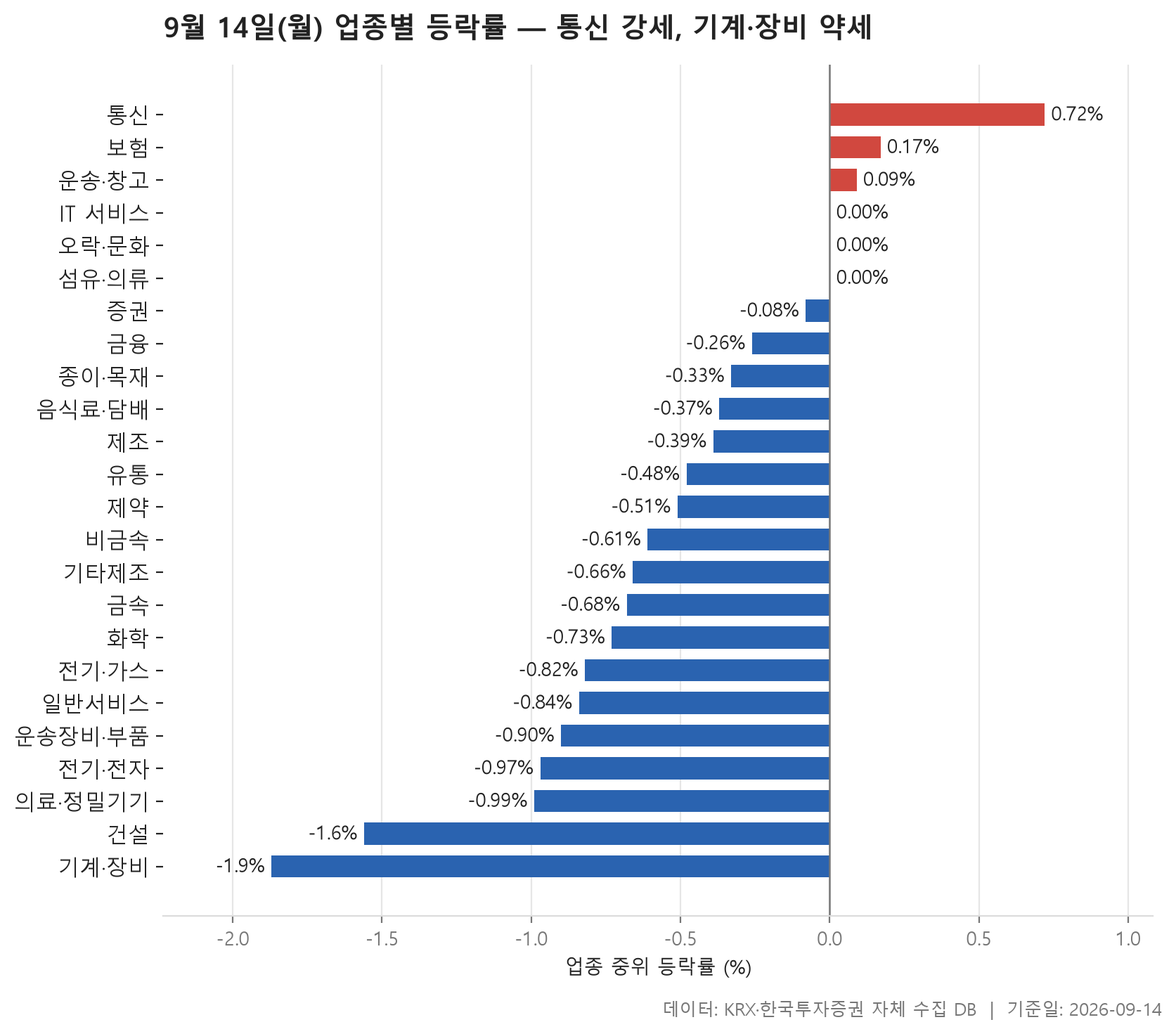
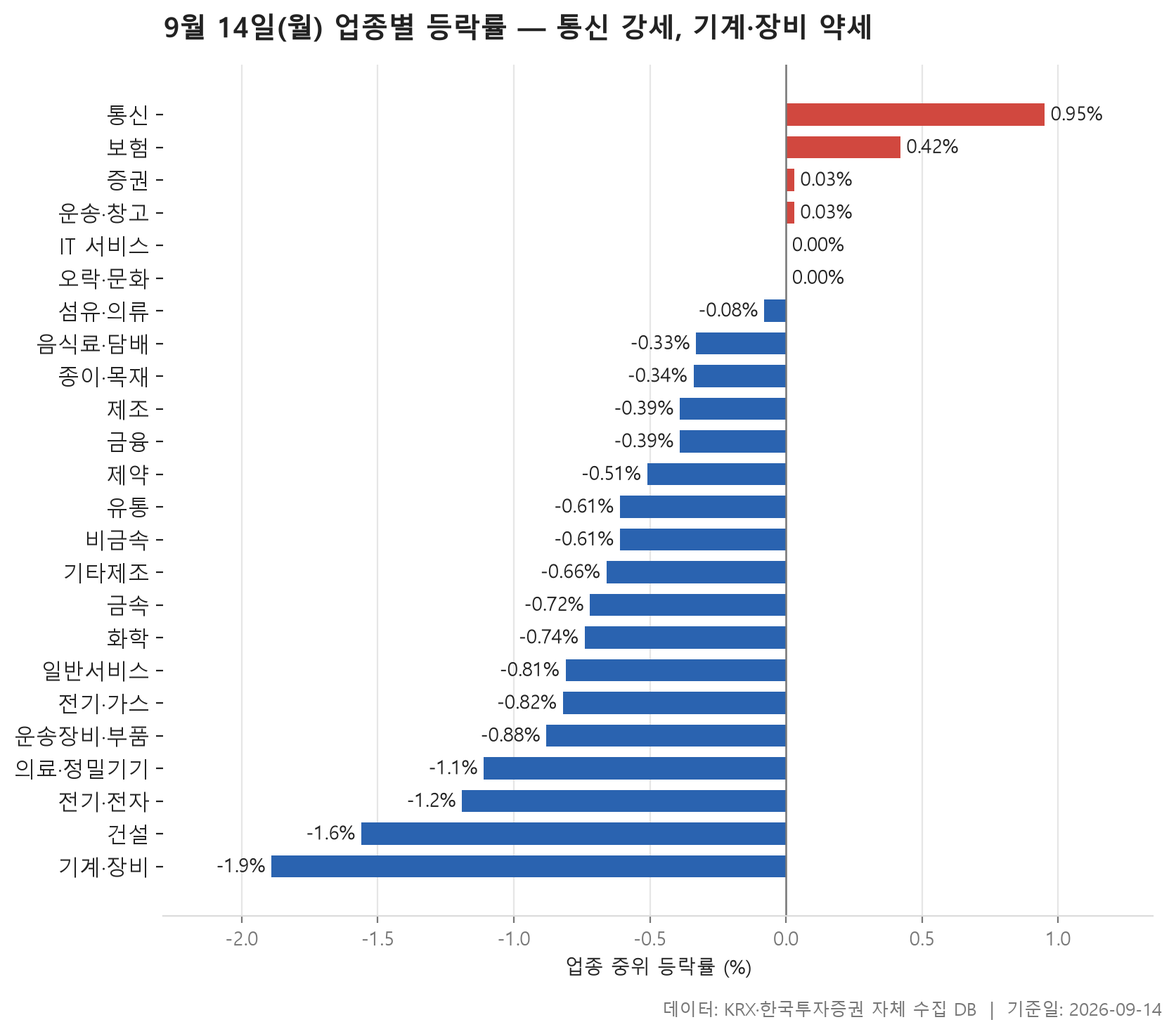
2026-09-14 자동 발행 (1편)
- 2026-09-14-daily-market

blog/daily.py 가 만들었습니다. push 는 사람이 확인 후 합니다.

diff --git a/content/posts/2026-09-14-daily-market/index.md b/content/posts/2026-09-14-daily-market/index.md
@@ -1,14 +1,14 @@
 ---
 title: "9월 14일(월) 오늘의 시장 — 통신 강세, 기계·장비 약세"
 date: 2026-09-14T16:10:00+09:00
-lastmod: 2026-09-14T16:05:51+09:00
+lastmod: 2026-09-28T17:11:32+09:00
 description: "업종 흐름, 52주 신고가·신저가, 거래량이 터진 종목을 한 번에 정리했습니다."
 categories: ["오늘의 시장"]
 draft: false
 sourcePack: "blog/output/2026-09-14/2026-09-14-daily-market/pack.json"
 strip:
   - label: "업종 중위 등락률"
-    value: "-0.49%"
+    value: "-0.56%"
     sign: "down"
   - label: "52주 신고가"
     value: "2개"
@@ -20,127 +20,125 @@ strip:
     value: "20개"
     sign: ""
 ---
-한 주의 첫 거래일이 끝났습니다. 2026년 9월 14일 종가를 9월 11일 종가와 비교해 24개 업종을 늘어놓고 보면, 화면 대부분이 마이너스 쪽으로 기울어 있습니다. 업종별 중위 등락률을 순서대로 세웠을 때 한가운데 놓인 값이 <span class="chg chg-down">-0.49%</span>. 24개 가운데 플러스로 마감한 업종은 3개뿐이고 18개가 마이너스였으니, 오르는 쪽보다 내리는 쪽이 훨씬 넓었던 하루입니다.
+9월 14일 월요일 장은 한마디로 **넓게 약한 하루**였습니다. 24개 업종 가운데 중위 등락률이 플러스인 곳은 4개, 마이너스인 곳은 18개였습니다. 업종별 중위 등락률을 한 줄로 세우면 한가운데 값이 <span class="chg chg-down">-0.56%</span>입니다. 크게 무너진 날은 아니었지만, 대부분 업종에서 내린 종목이 오른 종목보다 많았습니다.
 
-가장 위에 놓인 업종은 통신으로 중위 등락률 <span class="chg chg-up">+0.72%</span>, 가장 아래는 기계·장비로 <span class="chg chg-down">-1.87%</span>였습니다. 양 끝의 폭 자체가 크게 벌어진 날은 아니지만, 아래쪽이 두껍다는 점이 이날의 성격을 말해 줍니다. 지수 한두 개로는 잘 보이지 않는 대목이라, 업종 안쪽에서 몇 종목이나 올랐는지를 함께 봐야 그림이 잡힙니다.
+표를 조금 더 들여다보면 다른 그림이 하나 더 보입니다. 업종 전체는 가라앉았는데, 거래량이 평소의 수십 배로 불어난 종목은 거의 다 올랐습니다. 52주 신고가는 두 종목뿐이었고 신저가는 여덟 종목이었는데, 신저가 종목은 모두 코스닥 종목이었습니다.
 
-오늘 글에서는 네 가지를 차례로 훑습니다. 먼저 업종별 흐름, 다음으로 52주 최고가를 넘어선 종목과 52주 최저가를 밑돈 종목, 마지막으로 평소 거래량의 몇 배가 터진 종목들입니다. 어느 쪽이든 표가 말해 주는 범위 안에서만 읽겠습니다. 왜 그렇게 움직였는지는 이 자료에 들어 있지 않습니다.
+오늘은 업종 등락, 신고가, 신저가, 거래량 급증 순서로 살펴봅니다. 평균만 보면 오른 것처럼 보이지만 실제로는 종목 대부분이 내린 업종도 있어서, 그런 대목을 중심으로 짚어 보겠습니다.
 
 > 기준일: 2026-09-14 · 집계: 자체 수집 데이터베이스
 
 ## 업종 등락률 — 24개 중 18개 하락
 
-순위는 업종 안 종목들의 등락률을 늘어놓았을 때 한가운데 놓인 값으로 매겼습니다. 평균은 상한가 한 종목에 크게 흔들리기 때문입니다. 이 기준으로 보면 위쪽에 통신, 보험, 운송·창고가 있고, 그 아래 IT 서비스·오락·문화·섬유·의류가 0.00%로 붙어 있습니다. 즉 플러스 구간이 아주 얇습니다. 반대로 아래쪽은 건설 <span class="chg chg-down">-1.56%</span>, 기계·장비 <span class="chg chg-down">-1.87%</span>로 떨어지면서 꼬리가 길게 늘어져 있고요.
+맨 위는 통신입니다. 중위 등락률이 <span class="chg chg-up">+0.95%</span>이고, 13개 종목 가운데 76.90%가 올랐습니다. 넷 중 셋 넘게 오른 셈이라 몇 종목만 튄 결과는 아닙니다. 평균은 <span class="chg chg-up">+1.84%</span>로 중위값보다 높은데, 여기에는 프리티(<span class="chg chg-up">+8.37%</span>)의 몫이 큽니다. 이 종목 하나가 업종 평균을 0.64%p 끌어올렸습니다. 그 뒤로 보험과 증권, 운송·창고가 따라왔지만 증권과 운송·창고는 <span class="chg chg-up">+0.03%</span>에 그쳐 사실상 제자리였습니다.
 
-업종 안에서 오른 종목의 비중을 같이 보면 차이가 더 선명합니다. 통신은 열 곳 중 일고여덟 곳이 올라 76.90%였던 반면, 전기·가스는 10.00%, 건설은 15.70%, 기계·장비는 16.50%에 그쳤습니다. 아래쪽 업종들은 몇몇 종목이 크게 빠져서 내려간 게 아니라, 업종 전체가 고르게 밀린 모양입니다.
+눈여겨볼 곳은 중위값과 평균이 반대로 움직인 업종입니다. 보험은 중위값이 <span class="chg chg-up">+0.42%</span>인데 평균은 <span class="chg chg-down">-0.19%</span>입니다. 삼성생명(<span class="chg chg-down">-3.09%</span>) 하나가 평균을 -0.28%p 끌어내리면서 부호가 뒤집혔습니다. **제조**는 방향이 거꾸로입니다. 7개 종목 가운데 오른 종목이 14.30%뿐이고 중위값도 <span class="chg chg-down">-0.39%</span>인데, 평균은 <span class="chg chg-up">+0.28%</span>로 플러스입니다. 에넥스(<span class="chg chg-up">+16.08%</span>) 하나가 평균을 2.30%p 밀어 올렸기 때문입니다. 평균만 보면 오른 업종으로 착각하기 쉽습니다. IT 서비스도 중위값은 0.00%인데 평균은 <span class="chg chg-up">+0.93%</span>입니다. 다만 인피니트헬스케어(<span class="chg chg-up">+30.00%</span>)가 평균을 올린 폭은 0.12%p에 그쳐, 이 종목 말고도 크게 오른 종목이 여럿이었다고 읽는 편이 맞습니다.
 
-중위값과 평균이 어긋난 자리를 짚어 보면 읽을 거리가 생깁니다. 통신은 한가운데 값이 <span class="chg chg-up">+0.72%</span>인데 평균은 <span class="chg chg-up">+1.93%</span>까지 올라가 있고, 이 업종에서 가장 크게 움직인 프리티 한 종목이 업종 평균을 0.64%p 끌어올린 것으로 계산됩니다. 격차의 상당 부분이 이 한 종목에서 나온 셈입니다. 제조는 더 극단적입니다. 종목 수가 7개뿐인데 오른 종목은 14.30%에 불과한데도 평균은 <span class="chg chg-up">+0.28%</span>로 플러스입니다. 에넥스 한 종목이 평균에 얹은 몫이 2.30%p로, 이 표에서 가장 큰 값입니다. 반대로 기계·장비는 KS인더스트리가 <span class="chg chg-up">+29.97%</span>로 평균을 0.15%p 밀어 올렸지만 업종 전체가 <span class="chg chg-down">-1.72%</span>였습니다. 한 종목의 상한가가 200개 넘는 종목의 약세를 가리지 못한 겁니다.
-
-거래대금 쪽은 또 다른 이야기입니다. 전기·전자가 148,541.60억원으로 압도적인데, 정작 중위 등락률은 <span class="chg chg-down">-0.97%</span>이고 오른 종목은 셋 중 하나에 못 미쳤습니다. 돈이 가장 많이 오간 업종이 가장 강했던 업종은 아니었다는 뜻이죠. 화학에서는 카프로가 <span class="chg chg-down">-40.83%</span>로 표 전체에서 가장 큰 하락폭을 기록했는데, 업종 평균에 얹은 몫은 -0.18%p에 그쳤습니다. 222개짜리 업종에서는 한 종목의 급락도 평균에 별 자국을 남기지 못합니다.
+아래쪽에서는 기계·장비가 <span class="chg chg-down">-1.89%</span>로 가장 약했습니다. 206개 종목 가운데 오른 종목은 15.50%로, 여섯 곳 중 한 곳도 되지 않습니다. KS인더스트리가 <span class="chg chg-up">+29.97%</span> 올랐지만 업종 흐름을 바꾸지는 못했습니다. 건설(<span class="chg chg-down">-1.56%</span>)도 오른 종목이 15.70%로 비슷하게 얇았고, 전기·가스는 10개 종목 가운데 10.00%만 올랐습니다. 전기·전자는 363개 종목에 거래대금이 159,017.60억원으로 다른 업종과 비교가 안 될 만큼 컸는데, 중위값은 <span class="chg chg-down">-1.19%</span>였습니다. 화학의 카프로(<span class="chg chg-down">-40.83%</span>)나 운송장비·부품의 코다코(<span class="chg chg-down">-33.63%</span>)처럼 크게 빠진 종목도 있었습니다. 다만 종목 수가 많은 업종이라 각 업종 평균을 움직인 폭은 -0.18%p, -0.25%p에 머물렀습니다.
 
 ![업종 등락률 차트](chart-sector-change.png)
 
 | 업종 | 종목수(개) | 중위등락률(%) | 평균등락률(%) | 상승비율(%) | 주도종목 | 주도종목등락률(%) | 평균기여도(%p) | 거래대금합계(억원) |
 |---|---|---|---|---|---|---|---|---|
-| 통신 | 13 | +0.72 | +1.93 | 76.90 | 프리티 | +8.37 | 0.64 | 1,120.60 |
-| 보험 | 11 | +0.17 | -0.22 | 54.50 | 삼성생명 | -3.09 | -0.28 | 2,421.40 |
-| 운송·창고 | 28 | +0.09 | +0.03 | 53.60 | 흥아해운 | -5.64 | -0.20 | 1,343.80 |
-| IT 서비스 | 244 | 0.00 | +1.04 | 48.80 | 인피니트헬스케어 | +30.00 | 0.12 | 11,809.30 |
-| 오락·문화 | 67 | 0.00 | +0.40 | 49.30 | 골드앤에스 | -26.35 | -0.39 | 924.50 |
-| 섬유·의류 | 49 | 0.00 | -0.98 | 42.90 | 원풍물산 | -26.12 | -0.53 | 291.80 |
-| 증권 | 18 | -0.08 | +0.02 | 44.40 | 부국증권 | +2.20 | 0.12 | 781.10 |
-| 금융 | 111 | -0.26 | -0.32 | 42.30 | 나우IB | -23.33 | -0.21 | 17,215.10 |
-| 종이·목재 | 27 | -0.33 | -0.32 | 33.30 | 유니드비티플러스 | +4.08 | 0.15 | 37.80 |
-| 음식료·담배 | 84 | -0.37 | -0.78 | 33.30 | 아미코젠 | -11.99 | -0.14 | 1,766.90 |
-| 제조 | 7 | -0.39 | +0.28 | 14.30 | 에넥스 | +16.08 | 2.30 | 26.60 |
-| 유통 | 153 | -0.48 | -0.59 | 35.90 | 조이웍스앤코 | -11.44 | -0.07 | 6,187.90 |
-| 제약 | 166 | -0.51 | -0.45 | 30.70 | 삼익제약 | +15.55 | 0.09 | 7,050.00 |
-| 비금속 | 36 | -0.61 | -0.82 | 38.90 | 유니온머티리얼 | +11.26 | 0.31 | 568.90 |
-| 기타제조 | 14 | -0.66 | -0.08 | 35.70 | 리튬포어스 | +3.82 | 0.27 | 13.60 |
-| 금속 | 131 | -0.68 | -0.76 | 29.80 | 영풍 | +29.91 | 0.23 | 5,158.10 |
-| 화학 | 222 | -0.73 | -0.89 | 31.10 | 카프로 | -40.83 | -0.18 | 10,331.10 |
-| 전기·가스 | 10 | -0.82 | -1.28 | 10.00 | SGC에너지 | -4.08 | -0.41 | 588.30 |
-| 일반서비스 | 168 | -0.84 | -0.93 | 28.60 | 모아라이프플러스 | +11.56 | 0.07 | 6,480.10 |
-| 운송장비·부품 | 134 | -0.90 | -1.14 | 31.30 | 코다코 | -33.63 | -0.25 | 9,677.30 |
-| 전기·전자 | 363 | -0.97 | -0.68 | 28.90 | 광전자 | +30.00 | 0.08 | 148,541.60 |
-| 의료·정밀기기 | 99 | -0.99 | -1.08 | 32.30 | 코셈 | +14.18 | 0.14 | 1,717.90 |
-| 건설 | 51 | -1.56 | -1.97 | 15.70 | 금호건설 | -7.55 | -0.15 | 3,273.60 |
-| 기계·장비 | 206 | -1.87 | -1.72 | 16.50 | KS인더스트리 | +29.97 | 0.15 | 13,331.60 |
+| 통신 | 13 | +0.95 | +1.84 | 76.90 | 프리티 | +8.37 | 0.64 | 1,179.50 |
+| 보험 | 11 | +0.42 | -0.19 | 54.50 | 삼성생명 | -3.09 | -0.28 | 2,735.70 |
+| 증권 | 18 | +0.03 | +0.06 | 50.00 | 부국증권 | +2.20 | 0.12 | 857.30 |
+| 운송·창고 | 28 | +0.03 | 0.00 | 50.00 | STX그린로지스 | -5.60 | -0.20 | 1,444.00 |
+| IT 서비스 | 244 | 0.00 | +0.93 | 47.50 | 인피니트헬스케어 | +30.00 | 0.12 | 12,664.40 |
+| 오락·문화 | 67 | 0.00 | +0.53 | 47.80 | 아티스트컴퍼니 | +29.94 | 0.45 | 990.10 |
+| 섬유·의류 | 49 | -0.08 | -0.96 | 40.80 | 원풍물산 | -26.12 | -0.53 | 316.50 |
+| 음식료·담배 | 84 | -0.33 | -0.73 | 34.50 | 아미코젠 | -11.99 | -0.14 | 1,824.00 |
+| 종이·목재 | 27 | -0.34 | -0.63 | 25.90 | 무림SP | -2.61 | -0.10 | 40.30 |
+| 제조 | 7 | -0.39 | +0.28 | 14.30 | 에넥스 | +16.08 | 2.30 | 26.70 |
+| 금융 | 111 | -0.39 | -0.36 | 41.40 | 나우IB | -22.83 | -0.21 | 17,946.20 |
+| 제약 | 166 | -0.51 | -0.44 | 33.10 | 삼익제약 | +17.19 | 0.10 | 7,571.90 |
+| 유통 | 153 | -0.61 | -0.64 | 34.00 | 조이웍스앤코 | -11.44 | -0.07 | 6,862.90 |
+| 비금속 | 36 | -0.61 | -0.95 | 38.90 | 유니온머티리얼 | +11.26 | 0.31 | 604.30 |
+| 기타제조 | 14 | -0.66 | -0.08 | 35.70 | 리튬포어스 | +3.82 | 0.27 | 117.70 |
+| 금속 | 131 | -0.72 | -0.79 | 28.20 | 영풍 | +29.91 | 0.23 | 5,388.50 |
+| 화학 | 222 | -0.74 | -0.90 | 30.60 | 카프로 | -40.83 | -0.18 | 11,420.90 |
+| 일반서비스 | 168 | -0.81 | -1.02 | 29.20 | 모아라이프플러스 | +11.56 | 0.07 | 7,057.80 |
+| 전기·가스 | 10 | -0.82 | -1.30 | 10.00 | SGC에너지 | -4.08 | -0.41 | 610.60 |
+| 운송장비·부품 | 134 | -0.88 | -1.13 | 32.10 | 코다코 | -33.63 | -0.25 | 10,180.30 |
+| 의료·정밀기기 | 99 | -1.11 | -1.18 | 29.30 | 코셈 | +14.18 | 0.14 | 1,849.30 |
+| 전기·전자 | 363 | -1.19 | -0.82 | 27.00 | 광전자 | +30.00 | 0.08 | 159,017.60 |
+| 건설 | 51 | -1.56 | -1.97 | 15.70 | 금호건설 | -7.55 | -0.15 | 3,533.50 |
+| 기계·장비 | 206 | -1.89 | -1.81 | 15.50 | KS인더스트리 | +29.97 | 0.15 | 14,698.60 |
 
 ## 52주 신고가 2개 — 최고 인피니트헬스케어 30%
 
-시가총액 500억원 이상, 거래대금 3억원 이상인 보통주 가운데 종가가 직전 52주 최고가를 넘어선 종목은 단 2개였습니다. 하락 업종이 18개였던 날이니 이 정도 숫자는 이상하지 않습니다.
+종가가 지난 52주 최고가를 넘어선 종목은 두 개뿐이고, 둘 다 IT 서비스 업종입니다. 시장이 넓게 약했던 날이라 신고가가 드문 것은 어색하지 않습니다. 오히려 두 종목이 한 업종에서 나왔다는 점이 더 눈에 띕니다.
 
-둘 다 IT 서비스 업종이라는 점이 눈에 띕니다. 시장은 하나씩 나뉘어 키다리스튜디오가 KOSPI, 인피니트헬스케어가 KOSDAQ이고요. 등락률은 인피니트헬스케어가 <span class="chg chg-up">30%</span>로 가장 높고 키다리스튜디오가 <span class="chg chg-up">11.11%</span>로 가장 낮은데, 표에 두 종목뿐이라 중위값 <span class="chg chg-up">20.55%</span>는 두 값 사이를 가리키는 숫자에 가깝습니다.
+인피니트헬스케어는 코스닥에서 <span class="chg chg-up">+30.00%</span> 올라 11,310원에 마감하며 직전 최고가 10,980원을 넘었습니다. 앞 섹션에서 IT 서비스 업종 안에서 가장 크게 움직인 종목으로 나온 바로 그 종목입니다. 코스피의 키다리스튜디오는 <span class="chg chg-up">+11.11%</span> 올라 9,000원으로 직전 최고가 8,670원을 넘어섰습니다. 두 종목의 등락률 중위값은 <span class="chg chg-up">20.55%</span>입니다.
 
-두 종목 모두 직전 최고가를 아슬아슬하게 넘긴 게 아니라 당일 큰 폭으로 오르면서 한 번에 통과한 모양입니다. 종가와 이전 최고가를 나란히 보면 그 차이가 보입니다. 다만 시가총액은 키다리스튜디오가 3,336억원으로 가장 크고 나머지 한 종목도 비슷한 규모대라, 신고가가 대형주 쪽에서 나온 날은 아니었습니다. 거래대금도 두 종목 모두 100억원에 못 미칩니다.
+상승 폭은 인피니트헬스케어가 훨씬 컸지만 시가총액은 키다리스튜디오가 3,335.70억원으로 더 큽니다. 거래대금은 61.00억원과 63.30억원으로 비슷했습니다. IT 서비스 업종 전체의 중위 등락률은 0.00%였으니, 업종이 함께 오른 결과라기보다 개별 종목이 따로 움직인 결과로 보입니다.
 
 ![52주 신고가 차트](chart-high-change-rate.png)
 
 | 종목명 | 종목코드 | 시장 | 업종 | 종가(원) | 등락률(%) | 이전52주최고(원) | 거래대금(억원) | 시가총액(억원) |
 |---|---|---|---|---|---|---|---|---|
-| 키다리스튜디오 | 020120 | KOSPI | IT 서비스 | 9,000 | +11.11 | 8,670 | 61.00 | 3,336 |
-| 인피니트헬스케어 | 071200 | KOSDAQ | IT 서비스 | 11,310 | +30.00 | 10,980 | 62.60 | 2,759 |
+| 키다리스튜디오 | 020120 | KOSPI | IT 서비스 | 9,000 | +11.11 | 8,670 | 61.00 | 3,335.70 |
+| 인피니트헬스케어 | 071200 | KOSDAQ | IT 서비스 | 11,310 | +30.00 | 10,980 | 63.30 | 2,759.20 |
 
-## 52주 신저가 8개 — 최저 나우IB -23.33%
+## 52주 신저가 8개 — 최저 나우IB -22.83%
 
-반대쪽, 즉 52주 최저가를 밑돈 종목은 8개입니다. 신고가 2개와 견주면 네 배 수. 앞서 본 업종 표의 기울기와 방향이 같습니다.
+신저가는 여덟 종목이고 모두 코스닥입니다. 업종은 7개로 흩어져 있고, 두 종목이 나온 곳은 일반서비스(툴젠, 쓰리빌리언)뿐입니다. 특정 업종이 한꺼번에 무너졌다기보다 여러 업종에서 약한 종목이 하나씩 바닥을 새로 쓴 모양입니다. 등락률 중위값은 <span class="chg chg-down">-6.01%</span>입니다.
 
-여덟 종목 전부 KOSDAQ입니다. 같은 필터를 적용했는데 KOSPI 쪽에서는 한 종목도 걸리지 않았다는 점은 기억해 둘 만합니다. 업종은 7개로 흩어져 있고 일반서비스가 2개로 가장 많은데, 사실상 특정 업종에 몰렸다기보다 여기저기서 하나씩 나온 모양입니다.
+하락 폭은 종목마다 크게 달랐습니다. SAMG엔터는 <span class="chg chg-down">-1.87%</span>만 내렸는데도 종가 17,310원이 직전 최저가 17,320원을 간신히 밑돌아 표에 올랐습니다. 동양이엔피(<span class="chg chg-down">-2.51%</span>)도 크지 않은 하락으로 경계선을 넘었습니다. 반대로 나우IB는 <span class="chg chg-down">-22.83%</span> 급락해 1,085원에 마감했고, 아미코젠은 <span class="chg chg-down">-11.99%</span> 빠져 822원으로 직전 최저가 923원보다 한참 아래에서 끝났습니다. 두 종목은 업종 표에서도 금융과 음식료·담배 안에서 가장 크게 움직인 종목이었습니다.
 
-하락폭은 고르지 않습니다. 한가운데 값이 <span class="chg chg-down">-5.96%</span>인데, 가장 덜 빠진 SAMG엔터가 <span class="chg chg-down">-2.21%</span>, 가장 많이 빠진 나우IB가 <span class="chg chg-down">-23.33%</span>로 한쪽 끝이 크게 벌어져 있습니다. SAMG엔터나 동양이엔피처럼 종가가 직전 최저가를 근소하게 밑돈 경우가 있는가 하면, 아미코젠은 <span class="chg chg-down">-11.99%</span>로 밀리며 이전 최저가에서 제법 내려온 자리에 종가를 찍었습니다. 나우IB는 거래량 급증 표에도 이름이 올라 있어, 오늘 하루 움직임이 특히 컸던 종목입니다. 시가총액은 툴젠이 2,740억원으로 가장 크고, 581억원인 종목까지 있어 전반적으로 작은 편입니다.
+나우IB는 거래량 급증 표에도 이름이 있습니다. 평소보다 훨씬 많은 물량이 오가며 급락한 경우입니다. 시가총액이 가장 큰 신저가 종목은 툴젠(2,735.30억원, <span class="chg chg-down">-6.46%</span>)입니다.
 
 ![52주 신저가 차트](chart-low-change-rate.png)
 
 | 종목명 | 종목코드 | 시장 | 업종 | 종가(원) | 등락률(%) | 이전52주최저(원) | 거래대금(억원) | 시가총액(억원) |
 |---|---|---|---|---|---|---|---|---|
-| 툴젠 | 199800 | KOSDAQ | 일반서비스 | 30,450 | -6.31 | 32,350 | 19.90 | 2,740 |
-| SAMG엔터 | 419530 | KOSDAQ | 오락·문화 | 17,250 | -2.21 | 17,320 | 6.40 | 1,761 |
-| 쓰리빌리언 | 394800 | KOSDAQ | 일반서비스 | 4,135 | -3.84 | 4,245 | 5.40 | 1,316 |
-| 동양이엔피 | 079960 | KOSDAQ | 전기·전자 | 17,060 | -2.51 | 17,350 | 8.60 | 1,288 |
-| 큐리오시스 | 494120 | KOSDAQ | 의료·정밀기기 | 7,820 | -6.12 | 7,990 | 11.10 | 1,193 |
-| 나우IB | 293580 | KOSDAQ | 금융 | 1,078 | -23.33 | 1,092 | 40.00 | 1,023 |
-| 뷰노 | 338220 | KOSDAQ | IT 서비스 | 4,540 | -5.81 | 4,680 | 7.20 | 636 |
-| 아미코젠 | 092040 | KOSDAQ | 음식료·담배 | 822 | -11.99 | 923 | 10.00 | 581 |
+| 툴젠 | 199800 | KOSDAQ | 일반서비스 | 30,400 | -6.46 | 32,350 | 20.50 | 2,735.30 |
+| SAMG엔터 | 419530 | KOSDAQ | 오락·문화 | 17,310 | -1.87 | 17,320 | 7.10 | 1,766.90 |
+| 쓰리빌리언 | 394800 | KOSDAQ | 일반서비스 | 4,105 | -4.53 | 4,245 | 5.60 | 1,306.30 |
+| 동양이엔피 | 079960 | KOSDAQ | 전기·전자 | 17,060 | -2.51 | 17,350 | 8.70 | 1,288.30 |
+| 큐리오시스 | 494120 | KOSDAQ | 의료·정밀기기 | 7,820 | -6.12 | 7,990 | 11.30 | 1,193.30 |
+| 나우IB | 293580 | KOSDAQ | 금융 | 1,085 | -22.83 | 1,092 | 49.20 | 1,030.00 |
+| 뷰노 | 338220 | KOSDAQ | IT 서비스 | 4,535 | -5.91 | 4,680 | 7.40 | 635.00 |
+| 아미코젠 | 092040 | KOSDAQ | 음식료·담배 | 822 | -11.99 | 923 | 10.30 | 580.80 |
 
-## 거래량 급증 20개 — 최고 YTN 183.10배
+## 거래량 급증 20개 — 최고 YTN 269.50배
 
-당일 거래량이 직전 20거래일 평균의 5배를 넘은 보통주가 20개 잡혔습니다. 배수만 놓고 보면 위쪽이 유난히 가파릅니다. YTN이 183.10배로 가장 높고 동국산업 171.60배, 코닉오토메이션 105.70배까지 세 종목이 세 자릿수인데, 한가운데 값은 24.25배, 가장 낮은 라온시큐어는 14.30배입니다. 상위 몇 종목이 분포를 멀찍이 벗어나 있는 구조죠.
+거래량이 직전 20거래일 평균의 5배를 넘은 종목은 20개로, 코스피 5개와 코스닥 15개입니다. 배수의 중위값이 26.30배이니 기준선인 5배를 훌쩍 넘은 종목이 대부분입니다. 가장 두드러진 점은 **방향**입니다. 20개 가운데 내린 종목은 나우IB(<span class="chg chg-down">-22.83%</span>) 하나뿐이고 나머지는 모두 올랐습니다. 업종 대부분이 약했던 날, 거래가 몰린 곳은 오른 쪽이었습니다.
 
-흥미로운 건 배수 순위와 실제 등락이 따로 논다는 점입니다. 배수가 가장 큰 YTN의 등락률은 <span class="chg chg-up">+2.99%</span>로 표 안에서 오히려 조용한 축이고, 두 번째인 동국산업은 <span class="chg chg-up">+23.03%</span>로 크게 올랐습니다. 거래량이 평소의 몇 배로 터졌다는 사실 자체가 가격 방향을 알려 주지는 않는다는 이야기입니다. 실제로 20개 중 19개가 플러스인데 나우IB 하나만 <span class="chg chg-down">-23.33%</span>로 반대 방향이고, 이 종목은 앞 섹션의 52주 최저가 명단에도 들어 있습니다.
+다만 거래량 배수와 등락률이 같이 가지는 않았습니다. 배수가 가장 높은 YTN은 269.50배였지만 주가는 <span class="chg chg-up">+2.99%</span> 오르는 데 그쳤습니다. 동국산업은 182.80배에 <span class="chg chg-up">+23.03%</span>, 코닉오토메이션은 137.20배에 <span class="chg chg-up">+11.79%</span>였습니다. 코닉오토메이션과 씨케이솔루션(<span class="chg chg-up">+9.65%</span>)은 오늘 가장 약했던 기계·장비 업종 종목이라 업종 흐름과 반대로 움직였습니다. 동국산업·동국S&C·동국홀딩스가 나란히 표에 올랐고, 여행사인 노랑풍선과 모두투어도 함께 보입니다. 다만 이유는 이 자료로 알 수 없습니다.
 
-규모 면에서도 순위가 엇갈립니다. 시가총액이 가장 큰 영풍은 9,196억원에 등락률 <span class="chg chg-up">+29.91%</span>, 거래대금 301.60억원인데 배수는 22.10배로 중간쯤입니다. 반면 배수 최상단의 YTN은 시가총액 968억원, 거래대금 56.70억원이고요. 배수가 큰 종목일수록 평소 거래가 한산했던 작은 종목인 경우가 많습니다. 거래대금 기준으로 다시 줄을 세우면 샌즈랩 788.90억원, 빛샘전자 608.10억원, 라온시큐어 533.30억원, 지니언스 504.10억원 순으로, 배수 순위와는 전혀 다른 얼굴이 나옵니다.
-
-업종은 8개로 나뉘고 IT 서비스가 6개로 가장 많습니다. 52주 신고가 두 종목도 같은 업종이었던 걸 떠올리면, 업종 표에서 IT 서비스의 중위 등락률이 0.00%였던 것이 조용해서가 아니라 위아래로 크게 갈렸기 때문이라는 해석도 가능합니다. 실제로 이 업종의 평균 등락률은 <span class="chg chg-up">+1.04%</span>로 한가운데 값보다 위에 있습니다. 시장 구성은 KOSDAQ 16개, KOSPI 4개로 중소형주 쪽에 치우쳐 있습니다.
+업종별로는 IT 서비스가 5개로 가장 많았습니다. 시가총액이 가장 큰 종목은 영풍(9,196.10억원)으로, <span class="chg chg-up">+29.91%</span> 오르며 거래량이 평소의 22.20배로 불었습니다. 거래대금은 샌즈랩(883.00억원)과 티엠씨(882.80억원)가 거의 같은 수준으로 가장 컸습니다.
 
 ![거래량 급증 차트](chart-volume-ratio.png)
 
 | 종목명 | 종목코드 | 시장 | 업종 | 종가(원) | 등락률(%) | 거래량(주) | 평균거래량(주) | 배수(배) | 거래대금(억원) | 시가총액(억원) |
 |---|---|---|---|---|---|---|---|---|---|---|
-| YTN | 040300 | KOSDAQ | 오락·문화 | 2,030 | +2.99 | 2,497,665 | 13,644 | 183.10 | 56.70 | 968 |
-| 동국산업 | 005160 | KOSDAQ | 금속 | 3,125 | +23.03 | 4,409,963 | 25,699 | 171.60 | 138.90 | 1,695 |
-| 코닉오토메이션 | 391710 | KOSDAQ | 기계·장비 | 1,201 | +11.51 | 3,521,137 | 33,323 | 105.70 | 47.10 | 512 |
-| 샌즈랩 | 411080 | KOSDAQ | IT 서비스 | 6,870 | +24.68 | 11,528,166 | 229,040 | 50.30 | 788.90 | 1,049 |
-| 노랑풍선 | 104620 | KOSDAQ | 일반서비스 | 3,245 | +3.02 | 2,720,925 | 62,483 | 43.50 | 97.20 | 546 |
-| 씨케이솔루션 | 480370 | KOSPI | 기계·장비 | 1,952 | +9.54 | 4,315,446 | 120,472 | 35.80 | 88.60 | 634 |
-| 파수AI | 150900 | KOSDAQ | IT 서비스 | 4,300 | +13.91 | 1,407,707 | 51,732 | 27.20 | 61.40 | 503 |
-| 나우IB | 293580 | KOSDAQ | 금융 | 1,078 | -23.33 | 3,848,174 | 143,798 | 26.80 | 40.00 | 1,023 |
-| 동국S&C | 100130 | KOSDAQ | 금속 | 1,412 | +4.90 | 5,506,340 | 211,458 | 26.00 | 86.50 | 807 |
-| 모두투어 | 080160 | KOSDAQ | 일반서비스 | 9,870 | +4.11 | 1,010,696 | 41,038 | 24.60 | 104.40 | 1,865 |
-| 일신방직 | 003200 | KOSPI | 섬유·의류 | 12,140 | +17.52 | 666,798 | 27,854 | 23.90 | 78.80 | 2,787 |
-| 영풍 | 000670 | KOSPI | 금속 | 49,950 | +29.91 | 609,343 | 27,543 | 22.10 | 301.60 | 9,196 |
-| 지니언스 | 263860 | KOSDAQ | IT 서비스 | 19,370 | +14.28 | 2,638,208 | 123,356 | 21.40 | 504.10 | 1,759 |
-| 빛샘전자 | 072950 | KOSDAQ | 전기·전자 | 11,570 | +30.00 | 5,693,986 | 307,346 | 18.50 | 608.10 | 932 |
-| 케이사인 | 192250 | KOSDAQ | IT 서비스 | 8,100 | +3.85 | 415,191 | 22,924 | 18.10 | 34.60 | 572 |
-| 동국홀딩스 | 001230 | KOSPI | 금융 | 2,130 | +2.65 | 6,400,320 | 397,644 | 16.10 | 142.60 | 3,312 |
-| 우리넷 | 115440 | KOSDAQ | 전기·전자 | 8,890 | +7.11 | 5,113,697 | 324,367 | 15.80 | 478.30 | 960 |
-| 위메이드플레이 | 123420 | KOSDAQ | IT 서비스 | 6,410 | +0.94 | 285,830 | 18,803 | 15.20 | 18.90 | 667 |
-| 솔본 | 035610 | KOSDAQ | 일반서비스 | 5,090 | +0.99 | 575,826 | 40,251 | 14.30 | 30.90 | 1,392 |
-| 라온시큐어 | 042510 | KOSDAQ | IT 서비스 | 11,230 | +19.72 | 4,760,356 | 332,206 | 14.30 | 533.30 | 1,247 |
+| YTN | 040300 | KOSDAQ | 오락·문화 | 2,030 | +2.99 | 3,676,758 | 13,644 | 269.50 | 82.70 | 967.80 |
+| 동국산업 | 005160 | KOSDAQ | 금속 | 3,125 | +23.03 | 4,698,344 | 25,699 | 182.80 | 147.70 | 1,695.10 |
+| 코닉오토메이션 | 391710 | KOSDAQ | 기계·장비 | 1,204 | +11.79 | 4,572,959 | 33,323 | 137.20 | 60.80 | 513.20 |
+| 노랑풍선 | 104620 | KOSDAQ | 일반서비스 | 3,340 | +6.03 | 3,555,237 | 62,483 | 56.90 | 126.20 | 561.50 |
+| 샌즈랩 | 411080 | KOSDAQ | IT 서비스 | 6,900 | +25.23 | 12,870,934 | 229,040 | 56.20 | 883.00 | 1,053.50 |
+| 아티스트컴퍼니 | 321820 | KOSDAQ | 오락·문화 | 3,385 | +29.94 | 1,100,588 | 21,322 | 51.60 | 35.90 | 527.80 |
+| 씨케이솔루션 | 480370 | KOSPI | 기계·장비 | 1,954 | +9.65 | 5,248,785 | 120,472 | 43.60 | 107.60 | 634.70 |
+| 나우IB | 293580 | KOSDAQ | 금융 | 1,085 | -22.83 | 4,635,941 | 143,798 | 32.20 | 49.20 | 1,030.00 |
+| 일신방직 | 003200 | KOSPI | 섬유·의류 | 12,250 | +18.59 | 816,519 | 27,854 | 29.30 | 97.30 | 2,812.60 |
+| 동국S&C | 100130 | KOSDAQ | 금속 | 1,412 | +4.90 | 5,716,102 | 211,458 | 27.00 | 89.40 | 806.90 |
+| 모두투어 | 080160 | KOSDAQ | 일반서비스 | 9,870 | +4.11 | 1,050,121 | 41,038 | 25.60 | 108.30 | 1,865.40 |
+| 지니언스 | 263860 | KOSDAQ | IT 서비스 | 19,400 | +14.45 | 2,792,121 | 123,356 | 22.60 | 533.70 | 1,761.40 |
+| 영풍 | 000670 | KOSPI | 금속 | 49,950 | +29.91 | 612,720 | 27,543 | 22.20 | 303.30 | 9,196.10 |
+| 빛샘전자 | 072950 | KOSDAQ | 전기·전자 | 11,240 | +26.29 | 6,495,327 | 307,346 | 21.10 | 699.20 | 905.10 |
+| 케이사인 | 192250 | KOSDAQ | IT 서비스 | 8,000 | +2.56 | 423,834 | 22,924 | 18.50 | 35.30 | 565.40 |
+| 동국홀딩스 | 001230 | KOSPI | 금융 | 2,135 | +2.89 | 6,607,229 | 397,644 | 16.60 | 146.90 | 3,320.10 |
+| 라온시큐어 | 042510 | KOSDAQ | IT 서비스 | 11,300 | +20.47 | 5,506,473 | 332,206 | 16.60 | 618.90 | 1,255.00 |
+| 우리넷 | 115440 | KOSDAQ | 전기·전자 | 8,890 | +7.11 | 5,239,052 | 324,367 | 16.20 | 489.50 | 959.60 |
+| 티엠씨 | 217590 | KOSPI | 전기·전자 | 12,770 | +17.37 | 6,987,241 | 436,855 | 16.00 | 882.80 | 3,076.80 |
+| 위메이드플레이 | 123420 | KOSDAQ | IT 서비스 | 6,570 | +3.46 | 298,423 | 18,803 | 15.90 | 19.70 | 683.30 |
 
 ## 정리
 
-정리하면, 9월 14일은 업종 24개 중 18개가 마이너스로 마감하고 한가운데 값이 <span class="chg chg-down">-0.49%</span>였던, 아래로 기운 하루였습니다. 52주 최고가를 넘은 종목은 2개, 최저가를 밑돈 종목은 8개로 그 기울기가 개별 종목 쪽에서도 확인됩니다. 다만 거래량이 크게 터진 20개 종목 가운데 19개가 오른 데서 보이듯, 전체가 밀리는 와중에도 국지적으로 돈이 몰린 자리는 따로 있었습니다. 통신과 제조처럼 한가운데 값과 평균이 어긋난 업종, 배수와 거래대금 순위가 엇갈린 종목들이 그 흔적입니다.\n\n마지막으로 한계를 밝혀 둡니다. 이 글의 숫자는 모두 종가 기준 하루치 집계이고, 왜 그렇게 움직였는지에 대한 정보는 자료에 들어 있지 않습니다. 52주 신고가·신저가와 거래량 급증 표는 시가총액 500억원, 거래대금 3억원이라는 필터를 통과한 보통주만 담고 있어 그 아래 구간은 보이지 않습니다. 업종 순위도 보통주 5종목 이상인 업종만 대상으로 했습니다. 어디까지나 하루의 단면이며, 특정 종목의 매매를 권하는 글이 아닙니다.
+정리하면, 9월 14일은 업종 대부분이 약보합에서 약세였고, 거래가 몰린 일부 종목만 크게 오른 날이었습니다. 통신은 넓게 올랐고 기계·장비는 넓게 내렸습니다. 제조와 보험처럼 중위값과 평균이 반대 방향을 가리킨 업종도 있어서, 평균만 보면 시장을 잘못 읽을 수 있습니다.
+
+이 글은 하루치 종가만 비교한 결과입니다. 신고가·신저가와 거래량 급증 표는 시가총액 500억원 이상 보통주만 걸러 낸 것이라 작은 종목의 움직임은 빠져 있습니다. 종목이 왜 움직였는지는 자료에 없어 다루지 않았고, 여기 나온 종목들이 앞으로 어떻게 움직일지도 이 표만으로는 알 수 없습니다.
 
 ## 집계 기준
 
@@ -151,7 +149,7 @@ strip:
 - **주도종목**: 그 업종에서 등락률 절대값이 가장 큰 종목 (동점이면 거래대금이 큰 쪽)
 - **평균기여도**: 그 종목 하나가 업종 평균을 움직인 폭 (등락률 ÷ 종목수). 중위값과 평균의 격차가 이 값에 가까우면 평균을 만든 것이 그 종목이고, 훨씬 크면 다른 종목들도 함께 움직인 것입니다
 - **필터**: 업종 내 보통주 5종목 이상
-- **전체업종중위등락률(%)**: -0.49
+- **전체업종중위등락률(%)**: -0.56
 
 **52주 신고가**
 
